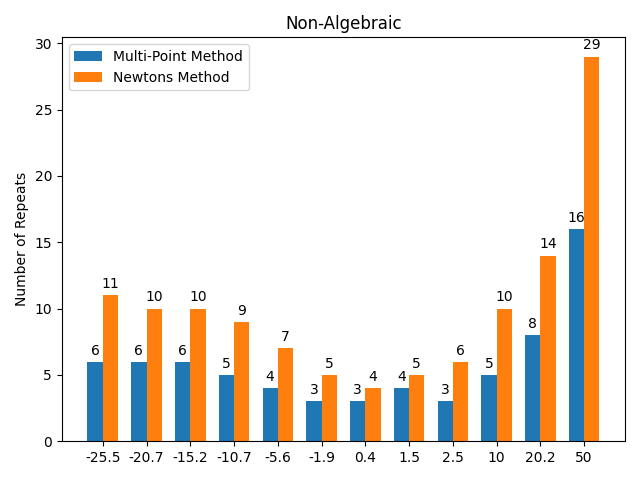
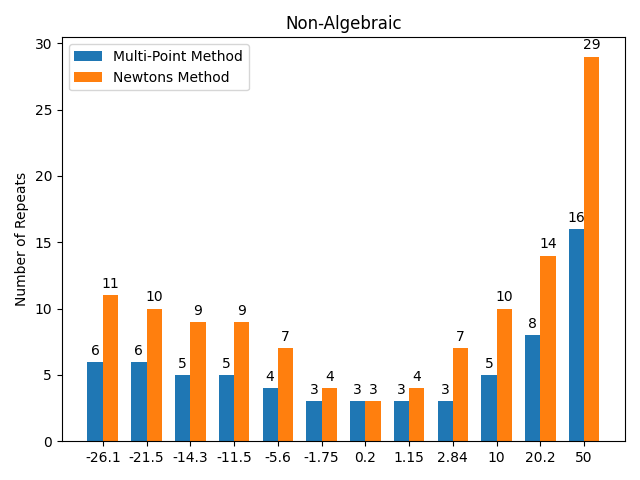
Final

diff --git a/mainNM.py b/mainNM.py
@@ -231,7 +231,7 @@ def make_a_plot(labels_parameter: list, NewtonMethod: list, MultiPoint: list, ti
 
 
 if __name__ == "__main__":
-    labels = [-25.5, -20.7, -15.2, -10.7, -5.6, -1.9, 0.4, 1.5, 2.5, 10, 20.2, 50]
+    labels = [-26.1, -21.5, -14.3, -11.5, -5.6, -1.75, 0.2, 1.15, 2.84, 10, 20.2, 50]
     print("NON ALGEBRAIC:")
     call_NA(labels)
     #print(json_data)
